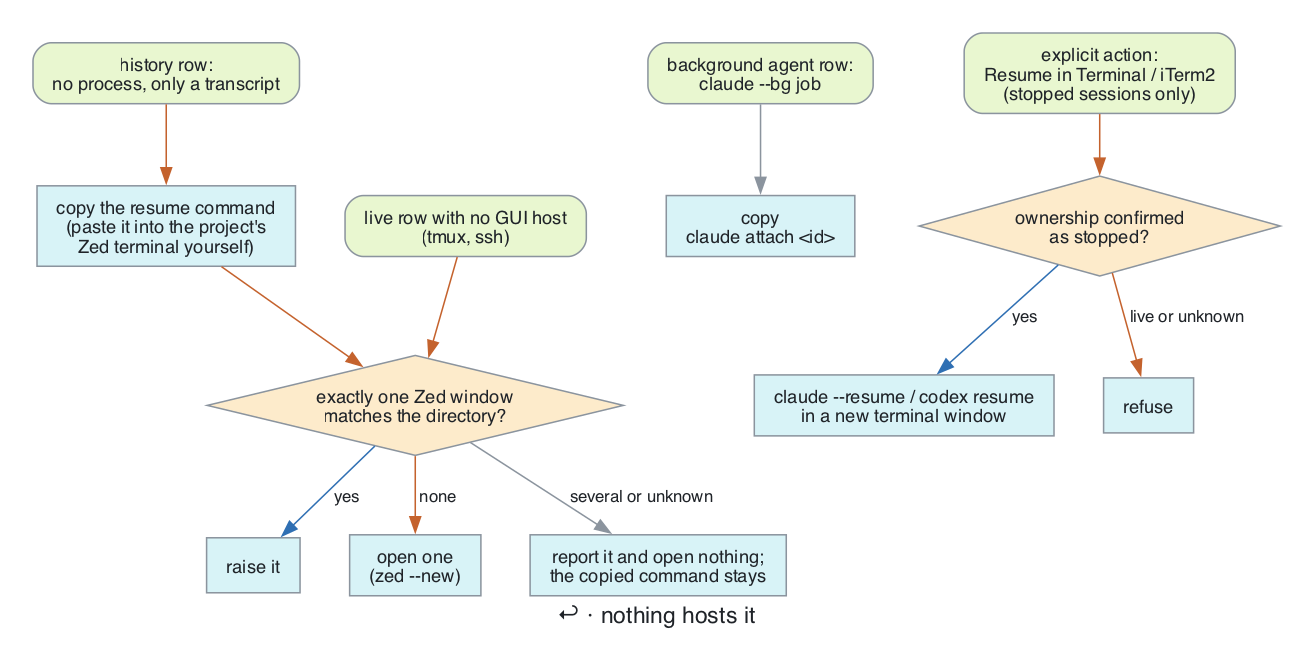
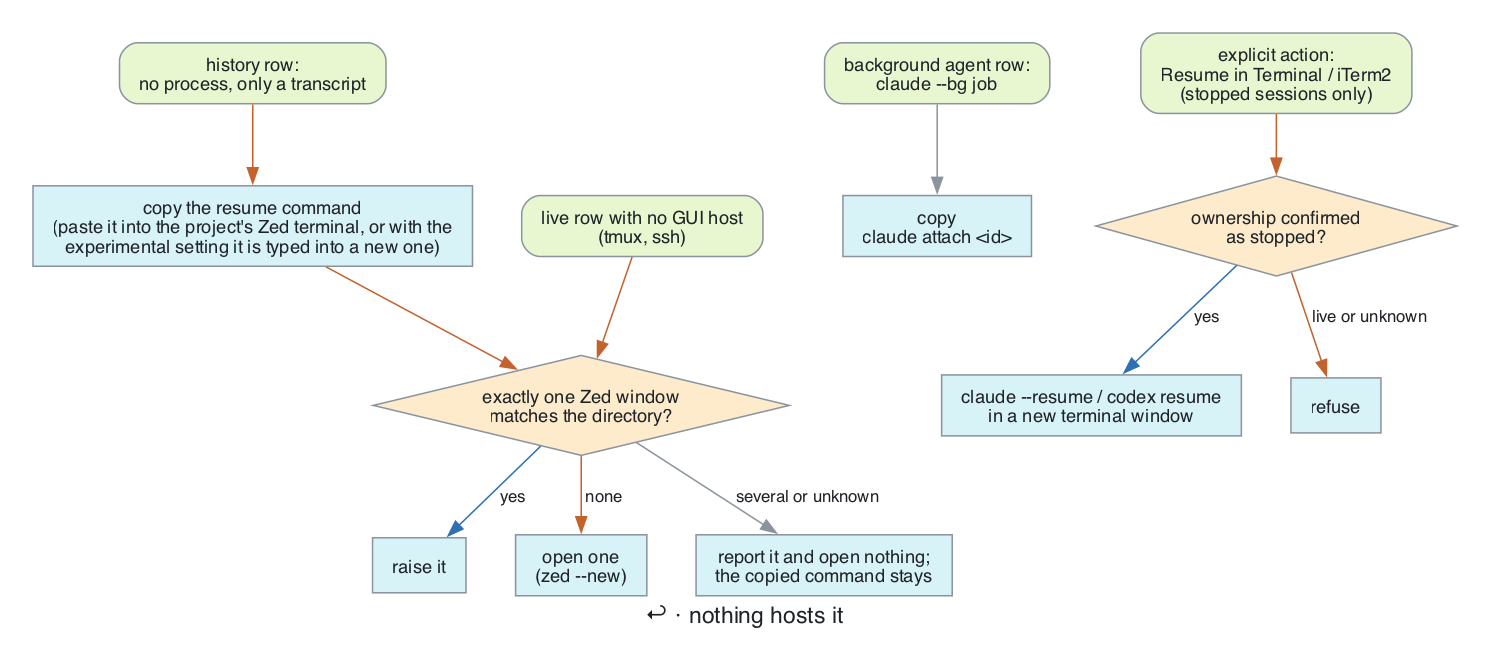
docs: describe the Zed Terminal setting and what is not possible with Zed tabs
Records what was tried on Zed 1.25.3: new terminal and paste work, direct tty
input is refused by macOS, and tabs cannot be read or selected reliably, so
selecting the tab that hosts a running session is not supported.

diff --git a/docs/render_diagrams.py b/docs/render_diagrams.py
@@ -174,7 +174,11 @@ def resuming_a_session() -> None:
     """
     diagram = chart("↩ · nothing hosts it", "docs/flow-resume")
     pill(diagram, "history", "history row:\nno process, only a transcript")
-    step(diagram, "copy", "copy the resume command\n(paste it into the project's\nZed terminal yourself)")
+    step(
+        diagram,
+        "copy",
+        "copy the resume command\n(paste it into the project's Zed terminal, or with the\nexperimental setting it is typed into a new one)",
+    )
     pill(diagram, "stuck", "live row with no GUI host\n(tmux, ssh)")
     choice(diagram, "window", "exactly one Zed window\nmatches the directory?")
     step(diagram, "raise", "raise it")

diff --git a/docs/verification.md b/docs/verification.md
@@ -6,7 +6,7 @@ This extends the existing Raycast extension. PromptCast was inspected as a desig
 
 ## Automated checks
 
-- `npm test`: 171 passing tests. Synthetic fixtures cover read-only SQLite catalogs, optional schema columns, archived filtering, rollout fallback, symlink confinement, command quoting and UUID validation, exact-path ownership, provider-isolated live merging, Codex lifecycle activity, Zed target resolution, host detection, and the action paths below. Modules that call AppleScript or the Raycast API are loaded with fakes (`tests/helpers/load-lib.ts`); no test touches a real window or the real clipboard.
+- `npm test`: 207 passing tests. Synthetic fixtures cover read-only SQLite catalogs, optional schema columns, archived filtering, rollout fallback, symlink confinement, command quoting and UUID validation, exact-path ownership, provider-isolated live merging, Codex lifecycle activity, Zed target resolution, host detection, and the action paths below. Modules that call AppleScript or the Raycast API are loaded with fakes (`tests/helpers/load-lib.ts`); no test touches a real window or the real clipboard.
   - `session-actions`: the real component is called and each action's handler is run against a fake Raycast API. Checked: what reaches the clipboard, the exact toast text for a reused window, a new window, an ambiguous window (the failure must say the command was copied), a row that cannot be resumed, a failed copy, live sessions with and without a GUI host, and background-job attach commands including a hostile job id.
   - `goto`: terminal-tab lookup per host kind, fallback to activating the host, Zed raise, reasons reported when no window matches, no-GUI-host sessions needing resume, activation failure.
   - `focus` and `windows`: window titles from the Window menu with accessibility and native-AX fallbacks, unique-match rule, refusal of ambiguous targets, a menu click not counting as success until the focused title is confirmed, AppleScript string escaping.
@@ -16,8 +16,9 @@ This extends the existing Raycast extension. PromptCast was inspected as a desig
   - `registry`, `process-age`, `agents`: a stale session file whose pid now belongs to another process is not shown as live; the cached CLI status only wins while the registry has not changed since and the session matches; the CLI cache and its invalidation.
   - `binary`: a symlinked CLI is returned as the link, not its versioned target, so a copied command survives an upgrade; non-executable, directory and shell-command inputs are refused.
   - `quote`: both quoters are round-tripped through a real `/bin/sh` and a real `osascript` with hostile strings, not compared with themselves.
+  - `zed-terminal` and `zed-input` (the opt-in typing into a new Zed terminal): the key table holds only a new terminal and a paste, and refuses Return, Enter, letters and prototype names; the sequence stops before any key for a multi-line command, a rebound key in the user's keymap, an unconfirmed or unfocused window, or a clipboard that differs; after the terminal key it stops without pasting if no terminal, two terminals, a wrong directory, a changed clipboard or lost focus is seen. In `session-actions`: the setting defaults to off, other editors and live rows never reach it, and a declined or failing terminal step leaves the command copied with the reason shown.
   - `codex-runtime`: no Codex process means stopped; any Codex process without a visible handle on a session means unknown; `lsof` or `ps` failure is uncertain.
-- Mutation check: five deliberate breakages of production code (Terminal using the iTerm lookup, a menu click accepted without confirming focus, the database no longer opened read-only, unknown Zed targets no longer refused, several Zed instances accepted) were each caught by exactly one failing test, then reverted. Four more in `session-actions` (a toast claiming the command was copied when it was not, a command never copied, the ambiguous failure no longer mentioning the copy, a background job id no longer validated) and each of the defect fixes listed below, reverted one at a time, were each caught by at least one failing test.
+- Mutation check: five deliberate breakages of production code (Terminal using the iTerm lookup, a menu click accepted without confirming focus, the database no longer opened read-only, unknown Zed targets no longer refused, several Zed instances accepted) were each caught by exactly one failing test, then reverted. Eight checks of the terminal sequence (a multi-line command, a changed clipboard, a wrong directory, two new terminals, lost focus, a rebound key, a Return key in the table; one further removal could not compile) were each caught by a failing test. Four more in `session-actions` (a toast claiming the command was copied when it was not, a command never copied, the ambiguous failure no longer mentioning the copy, a background job id no longer validated) and each of the defect fixes listed below, reverted one at a time, were each caught by at least one failing test.
 - `tsc --noEmit`, `npm run build`, `npm run lint` (manifest, icons, ESLint, Prettier) and `npm run format:check` pass.
 
 ## Static review
@@ -50,6 +51,8 @@ Across Spaces:
 
 These checks are reproducible: `ZED_GUI_TEST=1 npm run test:gui -- spaces` (`tests/gui/`). It is manual only, refuses to run without the variable, and is not part of `npm test` or CI. It raises each existing Zed window once, opens and closes only windows named `ztq-*`, and restores the original focus; it refuses to start if a `ztq-` window is already open.
 
+The `terminal` check (`-- terminal`) was run on the real Zed and passed: the command was typed into a new terminal of a disposable window, nothing ran until the test itself pressed Return, Return ran exactly what was typed, and a clipboard that no longer matched was refused without opening a terminal. The whole run, with navigation, passed thirteen of thirteen.
+
 Results: before the script was added to the repository, the same checks were run as throwaway scripts. Their first run passed nine of ten (one wrong expectation in the script itself), and after the review fixes they passed ten of ten twice and nine of nine for the fullscreen run. The repository version then passed sixteen of sixteen on the real Zed, after one fix to the script: the temporary directory is reached through a symlink (`/var` to `/private/var`) while Zed records real paths, which made the new windows look unresolvable until the path was resolved.
 
 Defects found by independent review and by the GUI checks, all fixed and covered by tests:
@@ -68,9 +71,9 @@ Earlier, the sandboxed System Events probe failed with error `-10827`; a permitt
 
 ## Scope
 
-Implemented: unified Claude/Codex list and previews, provider/path filters, read-only Codex catalog and bounded fallback, observed ownership with an unknown state, safe command construction, conservative Zed window resolution, an explicit window picker, and manual Zed resume (the command is copied, never typed).
+Implemented: unified Claude/Codex list and previews, provider/path filters, read-only Codex catalog and bounded fallback, observed ownership with an unknown state, safe command construction, conservative Zed window resolution, an explicit window picker, and Zed resume: the command is copied, and with the opt-in setting it is also pasted, never run, into a new terminal of the project's window.
 
-Not implemented: automatic command injection into Zed terminals, selection of the exact existing Zed terminal, annotations/pins, full-text transcript search, usage monitoring, hooks.
+Not implemented: selecting the exact existing Zed terminal tab that hosts a running session (Zed does not expose tabs; see `docs/zed-integration.md`), annotations/pins, full-text transcript search, usage monitoring, hooks.
 
 Out of scope: jumping to a live session hosted in VS Code, Cursor or any other editor. It is designed and tested for Zed only and may not work elsewhere.
 

diff --git a/README.md b/README.md
@@ -31,7 +31,9 @@ Open Sessions have observed live ownership. History is everything else; it does 
 
 **Enter on a history row** copies the resume command, then reveals the project window. A new window (`zed --new`) opens only when no window matches. If the mapping is ambiguous or unavailable, the extension says so and keeps the command in the clipboard. It never hands a path to an existing Zed window, because that can swap its project and kill its terminals.
 
-**No automatic resume inside Zed.** Zed's CLI cannot target a terminal, and keystroke automation cannot reliably bind input to one. Paste the copied command into the right Zed terminal yourself, after checking the session is not already running.
+**By default nothing is typed into Zed.** Zed's CLI cannot target a terminal, so Enter only copies the command and raises the window. Paste it into a Zed terminal yourself, after checking the session is not already running.
+
+**Experimental, off by default: type it for you.** With the **Zed Terminal** preference on, Enter on a history row also opens a new terminal in that project's Zed window and pastes the resume command into it, without running it. You press Enter there. It sends exactly two key presses to the Zed process, Ctrl+Shift+` (Zed's default for a new terminal) and Cmd+V, and only after checking, in this order, that the command is one line, your Zed keymap does not mention Ctrl+Shift+`, the project's window is the focused one, the clipboard still holds the command, exactly one new terminal appeared, that terminal opened in the project's directory, and nothing changed meanwhile. If any check fails, nothing more is sent and the command stays on the clipboard for a manual paste. It never presses Return, never types text, and cannot target an existing terminal tab: Zed does not expose tabs, so selecting the tab that hosts a running session is not possible.
 
 Sessions hosted in tmux or over ssh have no GUI host to jump to.
 
@@ -82,19 +84,20 @@ Also in the panel: **Choose Zed Window**, open in a new window, reveal folder/tr
 
 ## Preferences
 
-| Preference    | Default  | Meaning                                         |
-| ------------- | -------- | ----------------------------------------------- |
-| Editor        | Zed      | Zed is the supported editor (see above)         |
-| Terminal      | Terminal | External terminal resume; iTerm2 also supported |
-| Claude CLI    | claude   | Known executable lookup or absolute path        |
-| Codex CLI     | codex    | Known executable lookup or absolute path        |
-| History Limit | 80       | Recent sessions per provider, max 500           |
+| Preference    | Default  | Meaning                                                                   |
+| ------------- | -------- | ------------------------------------------------------------------------- |
+| Editor        | Zed      | Zed is the supported editor (see above)                                   |
+| Terminal      | Terminal | External terminal resume; iTerm2 also supported                           |
+| Claude CLI    | claude   | Known executable lookup or absolute path                                  |
+| Codex CLI     | codex    | Known executable lookup or absolute path                                  |
+| History Limit | 80       | Recent sessions per provider, max 500                                     |
+| Zed Terminal  | off      | Experimental: type the resume command into a new Zed terminal (see above) |
 
 Binaries resolve from known locations (including `~/.local/bin`) and absolute PATH entries. Shell startup files, functions and aliases are not run. If `codex` is a shell function, resume uses the real executable; set a wrapper's absolute path to override.
 
 ## Security and privacy
 
-Nothing is uploaded. The extension does not read auth files, private keys or `.env` files, change agent settings, install hooks, or write to source databases. Session files are treated as untrusted input: UUIDs are validated, executables resolved, each shell argument quoted, and Codex transcript paths must stay inside a session store. Only explicit copy actions touch the clipboard; clipboard managers may keep the command. No simulated keystrokes or automatic paste are used for Zed.
+Nothing is uploaded. The extension does not read auth files, private keys or `.env` files, change agent settings, install hooks, or write to source databases. Session files are treated as untrusted input: UUIDs are validated, executables resolved, each shell argument quoted, and Codex transcript paths must stay inside a session store. Only explicit copy actions touch the clipboard; clipboard managers may keep the command. By default no key is sent to Zed. The experimental **Zed Terminal** preference sends two fixed key presses (new terminal, paste) to the Zed process after the checks above; there is no code path that sends Return or any other key.
 
 Raycast needs two macOS permissions: **Accessibility**, to read and raise windows, and **Automation**, to control System Events, Terminal, iTerm2 and Zed (macOS asks the first time each is used). If a jump says it could not read the editor's windows, check both under System Settings > Privacy & Security. Permission granted to a terminal does not carry over.
 

diff --git a/docs/zed-integration.md b/docs/zed-integration.md
@@ -16,7 +16,7 @@ A unique DB-corroborated title can be focused through the Window menu. Exact pat
 
 Explicit window selection is available by unique title. This selects a window, not a terminal. Duplicate titles are displayed without an automatic focus action. Unknown resolution does not open a new window implicitly; a separate explicit action can do so with `--new`.
 
-No CLI path is handed to an existing Zed window to guess which project it should display. No global keystrokes, synthetic paste, or process termination are used.
+No CLI path is handed to an existing Zed window to guess which project it should display. By default no keystroke or paste is sent and no process is terminated. The opt-in **Zed Terminal** preference is the one exception, described below.
 
 ## Real GUI validation
 
@@ -40,3 +40,19 @@ Still unverified: moving across a different Space/fullscreen desktop and remote/
 Out of scope: jumping to a live session hosted in VS Code, Cursor or any other editor. Host detection, window matching and the Window-menu fallback are designed and tested for Zed only, and may not work elsewhere.
 
 Future terminal automation requires a delivery mechanism tied to the intended terminal. A new `sidebar_terminal_threads` row or a foreground check alone does not provide that guarantee. No actual session was launched or resumed as part of the window smoke tests.
+
+## Experimental: typing the resume command into a new Zed terminal
+
+Off by default (the **Zed Terminal** preference). Implemented in `src/lib/zed-terminal.ts` and `src/lib/zed-input.ts`.
+
+What was tried on Zed 1.25.3, and what it showed:
+
+- Ctrl+Shift+`posted to the Zed process opens a new terminal, and Cmd+V then pastes the clipboard into it. Shown by pasting`touch <file>` and pressing Return in a test: the file appeared.
+- A new terminal is detectable without reading the screen: Zed starts a `login` process per terminal, so one more `login` under the Zed process means one more terminal. Its shell's working directory (read with `lsof`) tells where it opened.
+- Typing into the new terminal's tty directly (TIOCSTI) is refused by macOS (`Operation not permitted`).
+- Accessibility exposes only the standard window buttons, not the tabs. Zed's database stores the tab order and which tab is active, but not which tab belongs to which process. A terminal's environment variables could not be read.
+- Cmd+1 did nothing and Cmd+2 opened an extra terminal in the test window, so tab switching by keystroke is not usable. Selecting the existing tab that hosts a running session is therefore not supported.
+
+Safety design: only two key presses can be sent (a table in `zed-input.ts`, with no Return); the paste happens only after the window, the clipboard and the new terminal have been checked, and a clipboard or focus change in between stops it. Each check has a test, and each was verified to fail when removed. A real-device check lives in `tests/gui` (`ZED_GUI_TEST=1 npm run test:gui -- terminal`).
+
+Known limits: it relies on Zed's default Ctrl+Shift+` for a new terminal. A user keymap that mentions that key disables the feature, and a rebinding made elsewhere is caught by the "exactly one new terminal appeared" check, in which case nothing is pasted.

diff --git a/SECURITY.md b/SECURITY.md
@@ -15,13 +15,15 @@ Knowing this makes a report easier to scope.
 - It reads local files: `~/.claude` (or `CLAUDE_CONFIG_DIR`), `~/.codex` (or `CODEX_HOME`) and Zed's Stable workspace database, which it opens read-only. It does not read authentication files, private keys or `.env` files.
 - It makes no network requests and uploads nothing.
 - It runs fixed commands with argument arrays (`ps`, `lsof`, `sqlite3`, `osascript`, the `claude` and `codex` CLIs). Session ids are validated as UUIDs, paths and commands are quoted for the shell and for AppleScript, and values reach JXA as arguments, not as script text.
-- It raises windows and selects terminal tabs through Accessibility and Automation. It never sends keystrokes or pastes into Zed, and it never terminates a process.
+- It raises windows and selects terminal tabs through Accessibility and Automation, and it never terminates a process.
+- By default it sends no key to Zed. The opt-in **Zed Terminal** preference sends two fixed key presses to the Zed process, Ctrl+Shift+` (new terminal) and Cmd+V (paste the resume command), after checking the window, the clipboard and the new terminal. It cannot send Return or any other key, so it never runs anything: you press Enter yourself.
 - It writes to the clipboard only when you ask it to copy a resume or attach command.
 
 ## In scope
 
 - A way to make the extension run a command or script the user did not choose.
 - A way to make it act on the wrong window, process or session in a way that causes loss.
+- A way to make the opt-in Zed Terminal feature paste into the wrong place (for example an editor buffer), send a key other than the two listed, or paste anything but the resume command.
 - A way to make it read or expose files it should not, or put something unexpected on the clipboard.
 
 ## Out of scope
